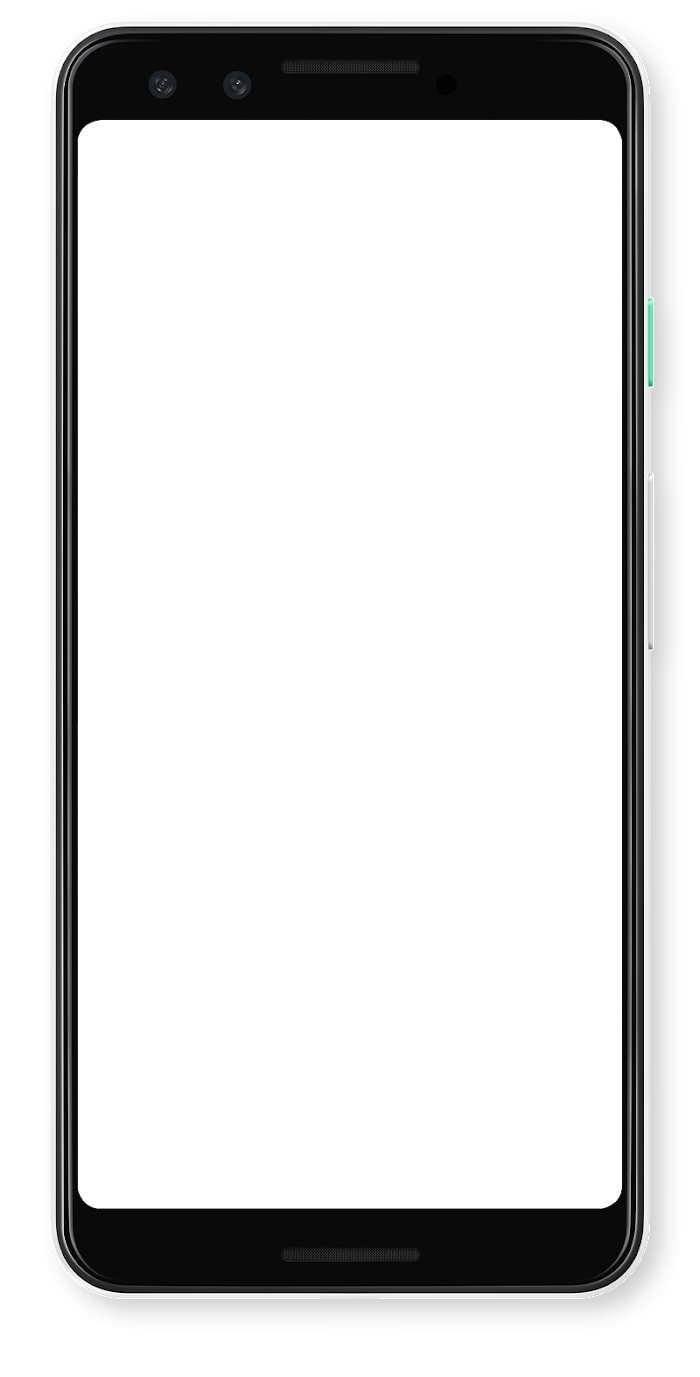
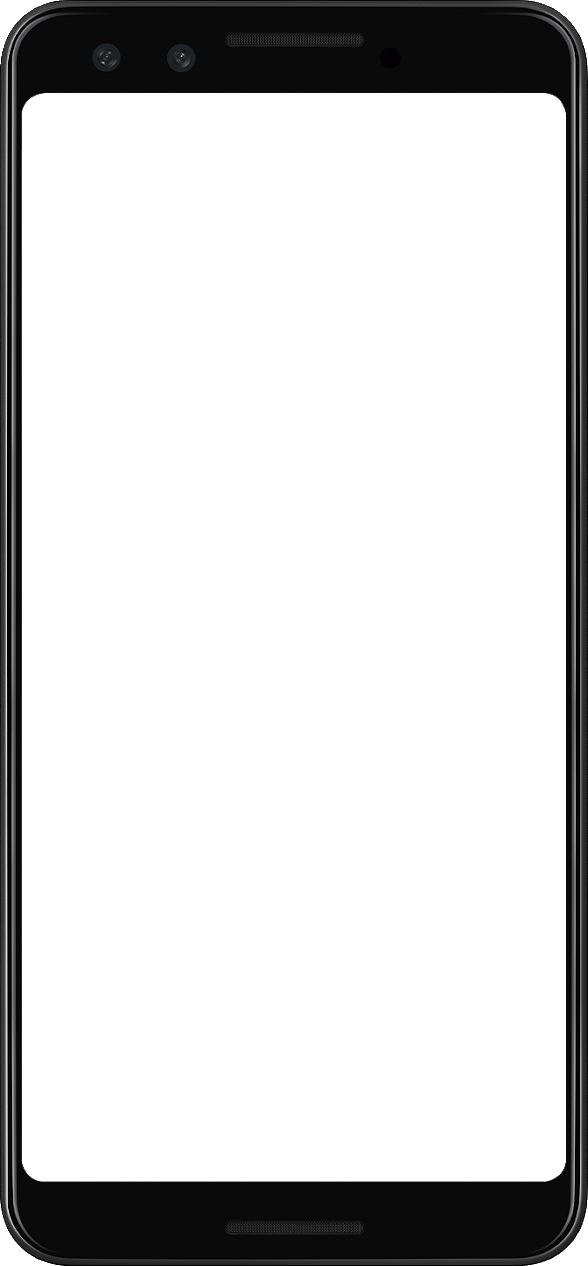
Add new device borders

Changed region(s): [[0.0, 0.0, 1.0, 1.0]]

diff --git a/style.css b/style.css
@@ -22,9 +22,15 @@ body {
 
 .column.previews {
     background: #00356b;
+    display: inline-flex;
+    flex-direction: row;
+    justify-content: center;
+    align-items: center;
 }
 .column.previews img {
-    width: 300px;
+    height: 500px;
+    margin: 10px;
+    display: inline-block;
 }
 
 .logo {
@@ -50,7 +56,7 @@ footer {
         height: 100vh;
     }
     .column.previews {
-        width: 30%;
+        width: 50%;
     }
     .column.info {
         padding-top: 15%;
